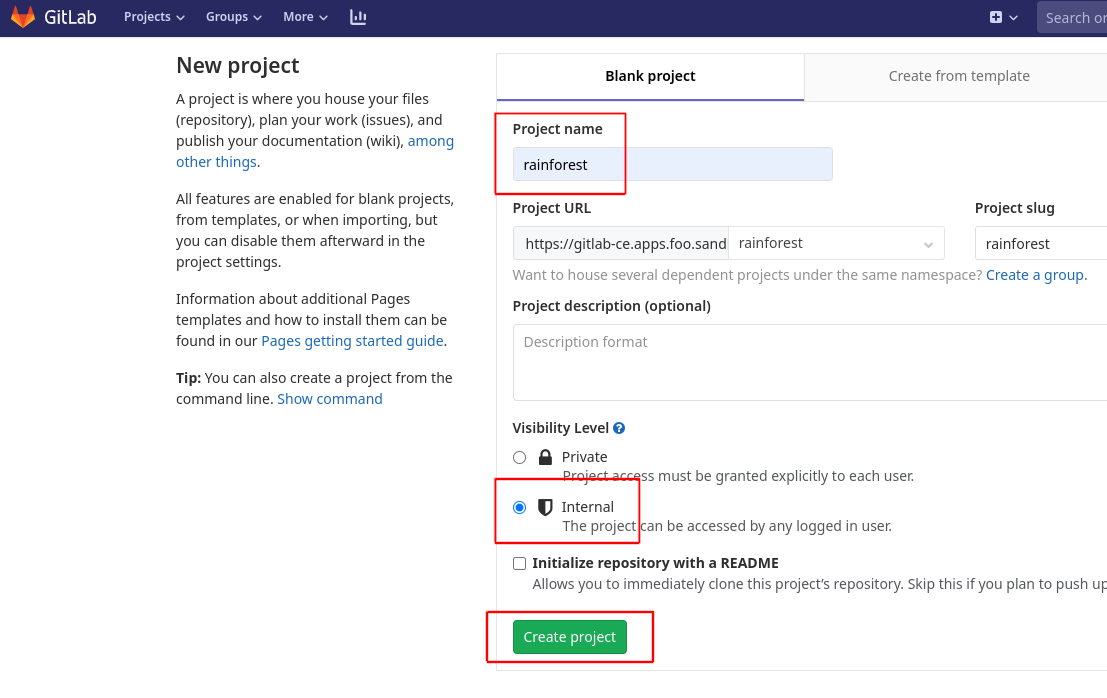
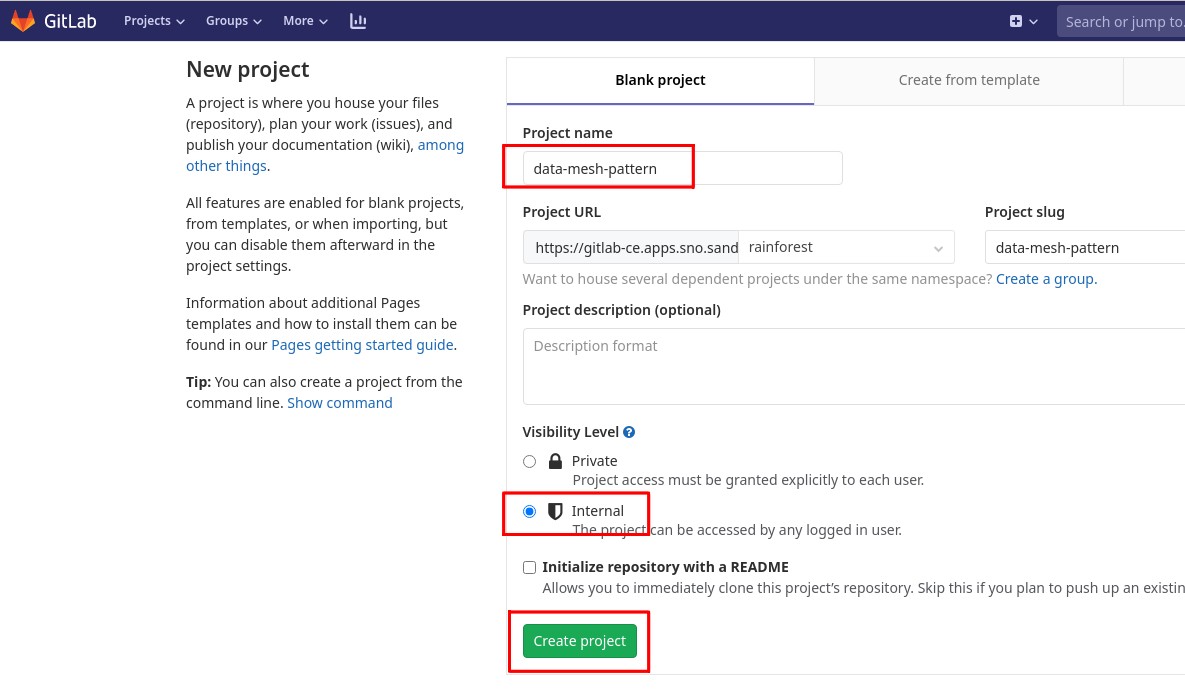
🦀 updates till end of platform work 🦀

diff --git a/docs/index.html b/docs/index.html
@@ -84,8 +84,8 @@
     window.$docsify = {
       auto2top: true,
       executeScript: true,
-      name: 'Rainforest Lab',
-      repo: 'https://github.com/eformat/rainforest-docs',
+      name: 'Data Mesh Lab',
+      repo: 'https://github.com/opendatahub-io-contrib/data-mesh-pattern',
       loadSidebar: true,
       subMaxLevel: 0,
       sidebarDisplayLevel: 0,

diff --git a/docs/2-platform-work/3-secrets.md b/docs/2-platform-work/3-secrets.md
@@ -8,7 +8,7 @@ We are going to configure Hashicorp Vault as our application secret backend. A s
 1. We configured ArgoCD with a service account name to use when connecting to Vault. Let's create the Service Account now.
 
    ```bash
-   oc login --server=https://api.${CLUSTER_DOMAIN##apps.}:6443 -u ${USER_NAME} -p ${USER_PASSWORD}
+   oc login --server=https://api.${CLUSTER_DOMAIN##apps.}:6443 -u admin -p ${ADMIN_PASSWORD}
    ```
    
    ```bash
@@ -66,7 +66,7 @@ We are going to configure Hashicorp Vault as our application secret backend. A s
 6. We need to unseal Hashi Vault to be able to start using it. Initialize the vault - we only do this once.
 
    ```bash
-   oc -n rainforest exec -ti platform-base-vault-0 -- vault operator init -key-threshold=1 -key-shares=1
+   oc -n data-mesh exec -ti platform-base-vault-0 -- vault operator init -key-threshold=1 -key-shares=1
    ```
 
    You should see the following sort of debug, **copy these somewhere safe**!
@@ -89,7 +89,7 @@ We are going to configure Hashicorp Vault as our application secret backend. A s
 7. Unseal the vault.   
 
    ```bash
-   oc -n rainforest exec -ti platform-base-vault-0 -- vault operator unseal $UNSEAL_KEY
+   oc -n data-mesh exec -ti platform-base-vault-0 -- vault operator unseal $UNSEAL_KEY
    ```
 
    ![secrets-vault-unseal](./images/secrets-vault-unseal.png)
@@ -184,6 +184,8 @@ We are going to configure Hashicorp Vault as our application secret backend. A s
     export ENTITY_ID=$(vault list -format json identity/entity/id | jq -r '.[]')
     ```
 
+    Note: that for **multiple** users in our team, the **member_entity_ids** entry would contain a list of id's. We only have one for now.
+
     ```bash
     vault write identity/group name="$TEAM_GROUP" \
     policies="$TEAM_GROUP-$PROJECT_NAME" \
@@ -225,15 +227,7 @@ We are going to configure Hashicorp Vault as our application secret backend. A s
    vault secrets enable -path=kv/ -version=2 kv
    ```
 
-19. The rest of the steps can now be carried out by our data science user in a self-service manner. Log back in as our **USER_NAME** to provision the ArgoCD Service Account token for k8s auth in vault.
-
-   ```bash
-   vault login -method=ldap username=${USER_NAME}
-   ```
-
-   We should see our user now has the correct policies set as well.
-
-   ![secrets-vault-login-user](./images/secrets-vault-login-user.png)
+20. The rest of the steps could now be carried out by our data science sre team in a self-service manner. For now though, we bind the service account using the single admin user as we have not given our data science user permission into the ci-cd project.
 
    Bind our k8s auth to the read ACL policy we created earlier.
 
@@ -262,7 +256,17 @@ We are going to configure Hashicorp Vault as our application secret backend. A s
    kubernetes_ca_cert="$SA_CA_CRT"
    ```
 
-20. Create the team ArgoCD Vault Plugin Secret that is used to find the correct path to the k8s auth we just created. 
+21. Create the team ArgoCD Vault Plugin Secret that is used to find the correct path to the k8s auth we just created. 
+
+   Log back in as our **USER_NAME** to provision the ArgoCD Service Account token for k8s auth in vault.
+
+   ```bash
+   vault login -method=ldap username=${USER_NAME}
+   ```
+   
+   We should see our user now has the correct policies set as well.
+   
+   ![secrets-vault-login-user](./images/secrets-vault-login-user.png)
 
    ```bash
    export AVP_TYPE=vault
@@ -291,7 +295,7 @@ We are going to configure Hashicorp Vault as our application secret backend. A s
    EOF
    ```
 
-21. Create an example kv2 secret to test things out.
+22. Create an example kv2 secret to test things out.
 
    ```bash
    export VAULT_HELM_RELEASE=vault
@@ -304,10 +308,6 @@ We are going to configure Hashicorp Vault as our application secret backend. A s
    export APP_NAME=secret-test
    export TEAM_GROUP=student
    export PROJECT_NAME=<TEAM_NAME>-ci-cd
-   ```
-   
-   ```bash
-   vault login -method=ldap username=${USER_NAME}
    ```
    
    ```bash
@@ -334,14 +334,14 @@ We have an encrypted file with all of the vault commands pre-baked to create our
 1. Using **ansible-vault** un-encrypt the Rainforest **vault-secrets** file. The decryption key will be provided by your instructor.
 
    ```bash
-   ansible-vault decrypt /projects/rainforest/gitops/secrets/vault-rainforest
+   ansible-vault decrypt /projects/data-mesh-pattern/gitops/secrets/vault-rainforest
    ```
 
 2. In your IDE, Globally replace these two matches across ALL files in the Rainforest code base. This will modify some ~70 files in one go.
 
    ![secrets-global-replace](./images/secrets-global-replace.png)
 
-   Use **Replace All** for the cluster domain in the code with **our actual** cluster domain.
+   Use **Replace All** for the cluster domain in the code with **our actual** cluster domain (run this echo in your shell!)
 
    ```bash
    foo.sandbox1234.opentlc.com ->  echo ${CLUSTER_DOMAIN##apps.}
@@ -350,7 +350,7 @@ We have an encrypted file with all of the vault commands pre-baked to create our
    Use **Replace All** for the Github coordinates with our Gitlab ones. 
 
    ```bash
-   github.com/opendatahub-io-contrib ->  <GIT_SERVER>/<TEAM_NAME>
+   github.com/opendatahub-io-contrib ->  <GIT_SERVER>/data-mesh-pattern
    ```
 
    💥 DO NOT CHECK IN the files just yet !! 💥
@@ -366,8 +366,8 @@ We have an encrypted file with all of the vault commands pre-baked to create our
    ```
 
    ```bash
-   cd /projects/rainforest/supply-chain/trino/trino-certs
-   keytool -import -alias ca -file /projects/rainforest/supply-chain/trino/trino-certs/ca.crt -keystore truststore.jks -storepass password -trustcacerts -noprompt
+   cd /projects/data-mesh-pattern/supply-chain/trino/trino-certs
+   keytool -import -alias ca -file /projects/data-mesh-pattern/supply-chain/trino/trino-certs/ca.crt -keystore truststore.jks -storepass password -trustcacerts -noprompt
    ```
 
    ```bash 
@@ -405,7 +405,7 @@ We have an encrypted file with all of the vault commands pre-baked to create our
 5. Create all the application secrets in vault. Run this script.
 
    ```bash
-   sh /projects/rainforest/gitops/secrets/vault-rainforest
+   sh /projects/data-mesh-pattern/gitops/secrets/vault-rainforest
    ```
 
    You should see vault secrets being created.
@@ -417,11 +417,11 @@ We have an encrypted file with all of the vault commands pre-baked to create our
 6. Encrypt rainforest vault-secrets file and check all our changes into git.
 
    ```bash
-   ansible-vault encrypt /projects/rainforest/gitops/secrets/vault-rainforest
+   ansible-vault encrypt /projects/data-mesh-pattern/gitops/secrets/vault-rainforest
    ```
 
    ```bash#test
-   cd /projects/rainforest
+   cd /projects/data-mesh-pattern
    git add .
    git commit -am "🐙 ADD - cluster rename and vault secrets file 🐙"
    git push -u origin --all

diff --git a/docs/2-platform-work/2-argocd.md b/docs/2-platform-work/2-argocd.md
@@ -22,7 +22,7 @@ ArgoCD is a gitops controller. We will use the OpenShift Gitops operator to depl
    helm repo add redhat-cop https://redhat-cop.github.io/helm-charts
    ```
 
-4. We configure the cluster scoped ArgoCD Operator so that we may create a privileged Team based ArgoCD instance. [Read more about aligning Teams and ArgoCD here.](https://github.com/redhat-cop/helm-charts/blob/master/charts/gitops-operator/TEAM_DOCS.md)
+4. We configure the cluster scoped ArgoCD Operator so that we may create a privileged Team based ArgoCD instance. Ideally we want a less privileged instance that just controls our teams namespaces - but for now this will suffice. [Read more about aligning Teams and ArgoCD here.](https://github.com/redhat-cop/helm-charts/blob/master/charts/gitops-operator/TEAM_DOCS.md)
 
     ```bash
     run()
@@ -85,7 +85,7 @@ ArgoCD is a gitops controller. We will use the OpenShift Gitops operator to depl
          subPath: argocd-vault-plugin    
      initialRepositories: |
        - name: rainforest
-         url: https://${GIT_SERVER}/${TEAM_NAME}/rainforest.git
+         url: https://${GIT_SERVER}/${TEAM_NAME}/data-mesh-pattern.git
      repositoryCredentials: |
        - url: https://${GIT_SERVER}
          type: git
@@ -128,7 +128,7 @@ ArgoCD is a gitops controller. We will use the OpenShift Gitops operator to depl
 
    ![argocd-install](./images/argocd-install.png)
 
-7. Login to ArgoCD using the OpenShift button. Login as **USER_NAME**, be sure to use the **FreeIPA** identity provider. On the first login you will be asked to approve OAuth permissions. 
+7. Login to ArgoCD using the OpenShift button. Login as **admin**. On the first login you will be asked to approve OAuth permissions. 
 
     ```bash
     echo https://$(oc get route argocd-server --template='{{ .spec.host }}' -n ${TEAM_NAME}-ci-cd)
@@ -139,14 +139,14 @@ ArgoCD is a gitops controller. We will use the OpenShift Gitops operator to depl
 8. We will use ArgoCD Projects, set these up now. The **rainforest** project is for our shared middleware, whilst the **daintree** is for our per-team tools.
 
    ```bash
-   oc apply -n ${TEAM_NAME}-ci-cd -k /projects/rainforest/tenant-argocd/overlay/rainforest
+   oc apply -n ${TEAM_NAME}-ci-cd -k /projects/data-mesh-pattern/tenant-argocd/overlay/cluster-dev/rainforest
    ```
 
    You can see these in the ArgoCD UI **Settings > Projects**
 
    ![argocd-projects](./images/argocd-projects.png)
 
-9. Login to Gitlab using LDAP and create an Internal Group called **<TEAM_NAME>**.
+9. Login to Gitlab using a data science **USER_NAME** and the LDAP identity provider. Create an Internal Group called **<TEAM_NAME>**.
 
     ```bash
     echo https://$(oc get route gitlab-ce --template='{{ .spec.host }}' -n gitlab)
@@ -154,11 +154,11 @@ ArgoCD is a gitops controller. We will use the OpenShift Gitops operator to depl
 
     ![gitlab-group](./images/gitlab-group.png)
 
-10. Create an Internal Project called **<TEAM_NAME>**.
+10. Create an Internal Project called **data-mesh-pattern**.
 
     ![gitlab-project](./images/gitlab-project.png)
 
-11. We will use a **Personal Access Token** to check in the code. 
+11. We will use a **Personal Access Token** to check in the code as the data science user.
 
     ```bash
     export GITLAB_USER=${USER_NAME}
@@ -173,16 +173,16 @@ ArgoCD is a gitops controller. We will use the OpenShift Gitops operator to depl
     ```
     
     ```bash
-    cd /projects/rainforest
-    git remote set-url origin https://${GITLAB_USER}:${GITLAB_PAT}@${GIT_SERVER}/${TEAM_NAME}/rainforest.git
+    cd /projects/data-mesh-pattern
+    git remote set-url origin https://${GITLAB_USER}:${GITLAB_PAT}@${GIT_SERVER}/${TEAM_NAME}/data-mesh-pattern.git
     ```
     
 12. Push our cloned code to Gitlab.
     
     ```bash
-    cd /projects/rainforest
+    cd /projects/data-mesh-pattern
     git add .
-    git commit -am "🐙 ADD - rainforest 🐙"
+    git commit -am "🐙 ADD - data-mesh-pattern 🐙"
     git push -u origin --all
     ```
 

diff --git a/docs/2-platform-work/1-devspaces.md b/docs/2-platform-work/1-devspaces.md
@@ -3,7 +3,7 @@
 
 We will use the DevSpaces web IDE as our code editor and toolbench for setting up the AIMLOPS Platform.
 
-1. Login to your DevSpaces Editor as your data science user **USER_NAME** e.g. **user1** - be sure to select the **FreeIPA** identity provider when logging in.
+1. Login to your DevSpaces Editor as your **admin** user.
 
    ![devspaces-link](./images/devspaces-link.png)
 
@@ -15,6 +15,10 @@ We will use the DevSpaces web IDE as our code editor and toolbench for setting u
 
    ```bash
    export GITHUB_TOKEN=<token>
+   ```
+
+   ```bash
+   export USER_NAME=admin 
    ```
 
    ```bash

diff --git a/docs/3-supply-chain/1-builds.md b/docs/3-supply-chain/1-builds.md
@@ -27,7 +27,7 @@ We use the ArgoCD app-of-apps pattern to deploy the set of applications that wou
 1. Login to the DevSpace Terminal and create our ArgoCD app of apps for **rainforest-ci-cd**
 
    ```bash
-   cd /projects/rainforest
+   cd /projects/data-mesh-pattern
    oc -n <TEAM_NAME>-ci-cd apply -f gitops/argocd/rainforest-ci-cd-dev-app-of-apps.yaml
    ```
 

diff --git a/docs/3-supply-chain/2-deploy-apps.md b/docs/3-supply-chain/2-deploy-apps.md
@@ -6,7 +6,7 @@ With all the images built, we can now create our team applications. In the Lab w
 1. Login to the DevSpace Terminal and create our ArgoCD app of apps for **daintree-dev**
 
    ```bash
-   cd /projects/rainforest
+   cd /projects/data-mesh-pattern
    oc -n <TEAM_NAME>-ci-cd apply -f gitops/argocd/daintree-dev-app-of-apps.yaml
    ```
 

diff --git a/docs/4-aiml-demos/4-data-investigation.md b/docs/4-aiml-demos/4-data-investigation.md
@@ -30,7 +30,7 @@
 5. Add the trino SSL CA certificate into the **Advanced > Security > ROOT CERTIFICATE** section
 
    ```bash
-   cat /projects/rainforest/supply-chain/trino/trino-certs/ca.crt
+   cat /projects/data-mesh-pattern/supply-chain/trino/trino-certs/ca.crt
    ```
 
    ![4-superset-ca-cert](./images/4-superset-ca-cert.png)

diff --git a/docs/3-supply-chain/4-sso.md b/docs/3-supply-chain/4-sso.md
@@ -26,7 +26,7 @@ We are using a GitOps pattern to manage single sign on for all of our apps. We c
    Check this file in.
 
    ```bash
-   cd /projects/rainforest
+   cd /projects/data-mesh-pattern
    git add gitops/iam/chart/iam/daintree-dev/values.yaml
    git commit -am "🐙 UPDATE - iam values file 🐙"
    git push
